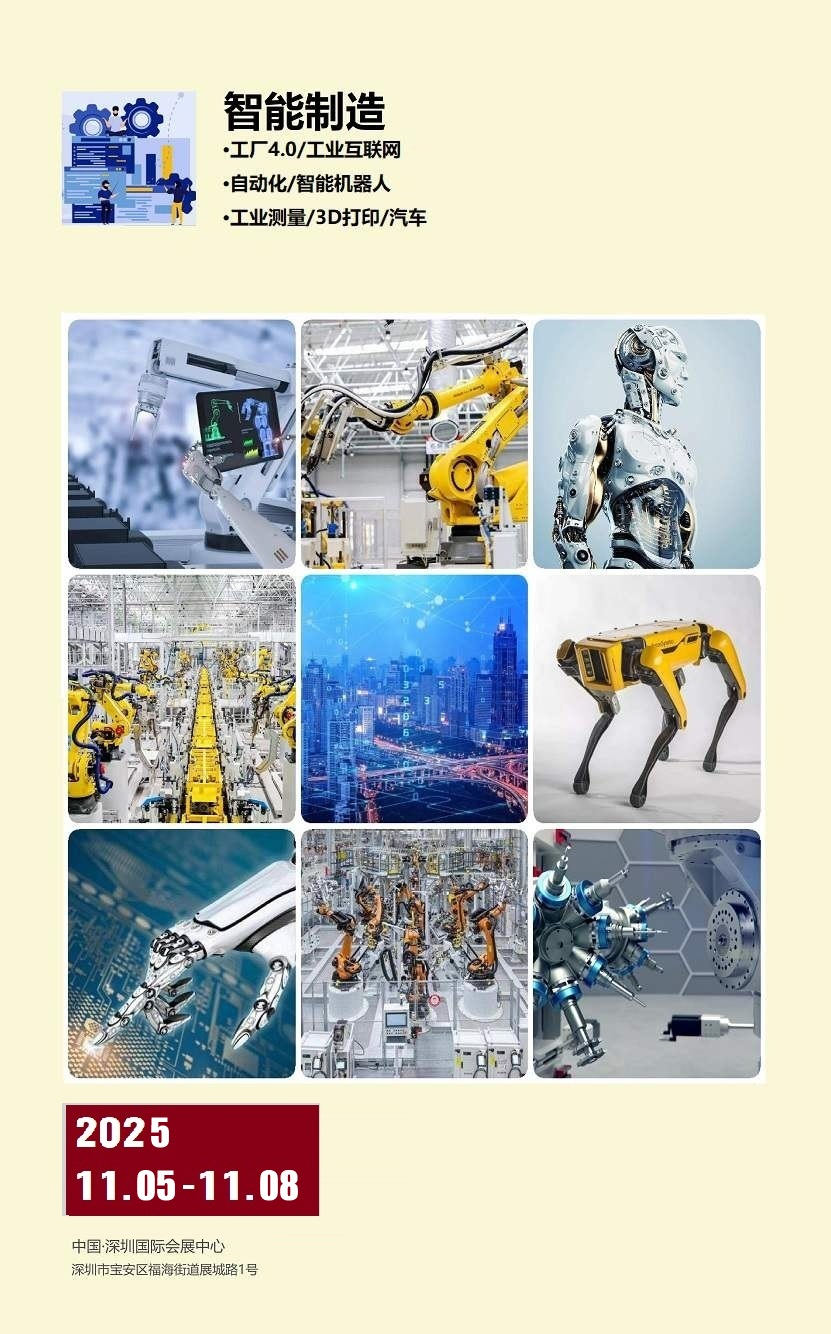
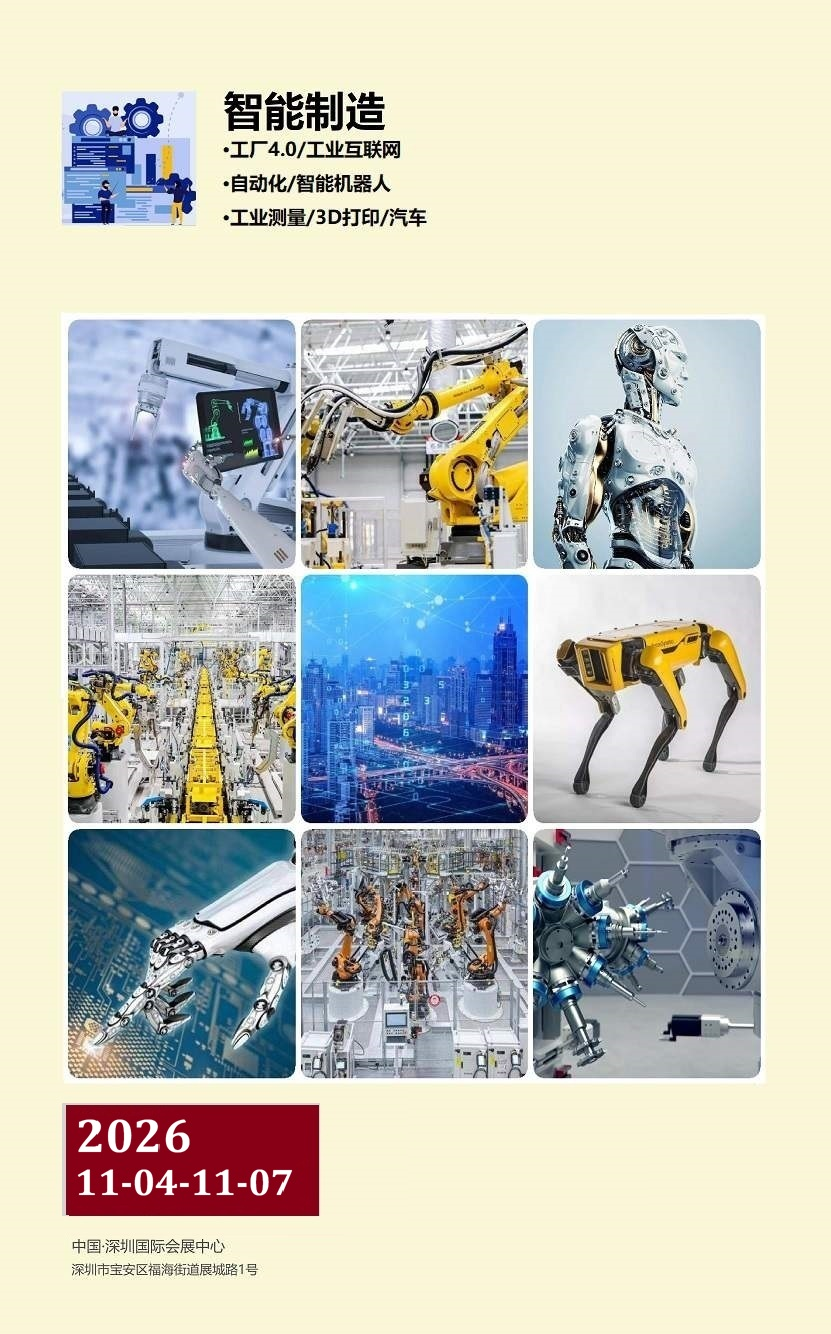
update

Changed region(s): [[0.0903, 0.8298, 0.361, 0.922]]

diff --git a/index.html b/index.html
@@ -2,9 +2,9 @@
 <html lang="zh">
 <head>
     <meta charset="UTF-8">
-    <title>2025大湾区工博会- DMP大湾区工业博览会-深圳工博会</title>
+    <title>2026大湾区工博会- DMP大湾区工业博览会-深圳工博会</title>
     <meta name="keywords" content="大湾区工博会,大湾区工业博览会,深圳大湾区工博会,dmp工博会"/>
-    <meta name="description" content="24万㎡DMP大湾区工业博览会（简称：大湾区工博会、深圳工博会、DMP展），2025在深圳举办，2000+参展商，是中国华南规模宏大的工业展览会【免费门票+80%展位补贴】" />
+    <meta name="description" content="24万㎡DMP大湾区工业博览会（简称：大湾区工博会、深圳工博会、DMP展），2026在深圳举办，2000+参展商，是中国华南规模宏大的工业展览会【免费门票+80%展位补贴】" />
 <meta name="viewport" content="width=device-width, user-scalable=no, initial-scale=1.0, maximum-scale=1.0, minimum-scale=1.0">
 <link rel="icon" href="./themes/halo_quickstarter/source/images/favicon.ico"  type="image/x-icon" />
 <link rel="stylesheet" href="https://unpkg.com/swiper/swiper-bundle.css">
@@ -145,7 +145,7 @@
 
 
 	<div class="M-Nav" id="logo"> 
-		<a href="#" class="Logo visible-xs"><img src="./upload/images/PhoneHead.jpg" alt="2025大湾区工博会- DMP大湾区工业博览会-深圳工博会"></a> 
+		<a href="#" class="Logo visible-xs"><img src="./upload/images/PhoneHead.jpg" alt="2026大湾区工博会- DMP大湾区工业博览会-深圳工博会"></a> 
 	</div>
 	<a href="javascript:;" class="M-Nav-btn"><div id="ToIndex"></div></a>
 	<a href="./../../../../.."  class="M-Nav-btn"><div id="ToIndex02"></div></a>
@@ -217,7 +217,7 @@
 
 
 	<div class="M-Nav" id="logo"> 
-		<a href="#" class="Logo visible-xs"><img src="./upload/images/PhoneHead.jpg" alt="2025大湾区工博会- DMP大湾区工业博览会-深圳工博会"></a> 
+		<a href="#" class="Logo visible-xs"><img src="./upload/images/PhoneHead.jpg" alt="2026大湾区工博会- DMP大湾区工业博览会-深圳工博会"></a> 
 	</div>
 	<a href="javascript:;" class="M-Nav-btn"><div id="ToIndex"></div></a>
 	<a href="./../../../../.."  class="M-Nav-btn"><div id="ToIndex02"></div></a>
@@ -285,7 +285,7 @@
 
 
 	<div class="M-Nav" id="logo"> 
-		<a href="#" class="Logo visible-xs"><img src="./upload/images/PhoneHead.jpg" alt="2025大湾区工博会- DMP大湾区工业博览会-深圳工博会"></a> 
+		<a href="#" class="Logo visible-xs"><img src="./upload/images/PhoneHead.jpg" alt="2026大湾区工博会- DMP大湾区工业博览会-深圳工博会"></a> 
 	</div>
 	<a href="javascript:;" class="M-Nav-btn"><div id="ToIndex"></div></a>
 	<a href="./../../../../.."  class="M-Nav-btn"><div id="ToIndex02"></div></a>
@@ -587,9 +587,11 @@
                     <div class="txt-list-title">展会动态<a href="./categories/message/index.html" class="pull-right">More+</a></div>
                     <ul>
                         <li>
-                            <a href="./s/exhibition-summary/index.html">2025DMP 大湾区工博会将于 11 月 5 日 - 8 日举办！</a>
+                            <a href="./s/exhibition-summary/index.html">2026DMP 大湾区工博会将于 11 月 4 日 - 7 日举办！</a>
                         </li>
-                        
+                        <li>
+                            <a href="https://live.photoplus.cn/live/15279799?accessFrom=live#/list" target="_blank">大湾区工博会2025年度展会现场高清图片回顾</a>
+                    </li>
                         <li>
                             <a href="https://live.photoplus.cn/live/pc/24471938/#/live" target="_blank">大湾区工博会2024年度展会现场高清图片回顾</a>
                         </li>
@@ -603,9 +605,7 @@
                             <li>
                                     <a href="./archives/为制造企业亮出发展锦囊/index.html">领军人物齐聚深圳，为制造企业亮出发展锦囊</a>
                             </li>
-                            <li>
-                                    <a href="./archives/中国工业互联网硬核技术大阅兵/index.html">赶超欧美工业4.0，中国工业互联网硬核技术大阅兵</a>
-                            </li>
+
                     </ul>
                 </div>
             </div>
